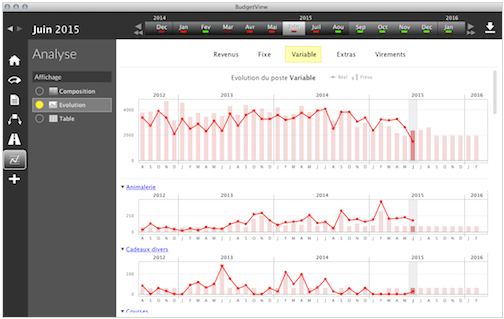
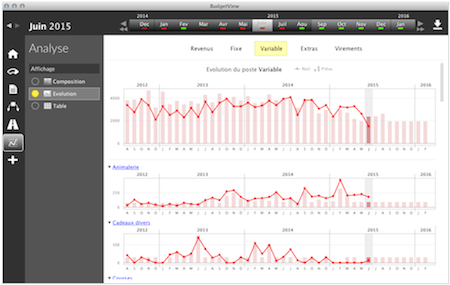
Fin publication v4.02

diff --git a/picsou/picsou/website/fr/content/telechargement/linux.html b/picsou/picsou/website/fr/content/telechargement/linux.html
@@ -4,27 +4,27 @@
     <table id="download" class="centered">
         <tr>
             <td class="left">
-                <a href="/files/app/budgetview-4.01.deb" class="clicky_log_download" onclick="clicky.goal('12644', '0.00');">
+                <a href="/files/app/budgetview-4.02.deb" class="clicky_log_download" onclick="clicky.goal('12644', '0.00');">
                     <button type="button" class="btn btn-primary">Télécharger .deb<br>
                         <span class="subtext">Ubuntu / Debian</span></button>
                 </a>
                 <p class="biglink" style="margin-top:5px">
-                    <a href="/files/app/budgetview-4.01.deb" class="clicky_log_download highlighted"
-                       onclick="clicky.goal('12644', '0.00');">budgetview-4.01.deb</a>
+                    <a href="/files/app/budgetview-4.02.deb" class="clicky_log_download highlighted"
+                       onclick="clicky.goal('12644', '0.00');">budgetview-4.02.deb</a>
                 </p>
             </td>
             <td class="center">
                 <img src="/files/images/download/linux.png" alt="" width="86" height="103">
             </td>
             <td class="right">
-                <a href="/files/app/budgetview-4.01-fr.tar.gz" class="clicky_log_download"
+                <a href="/files/app/budgetview-4.02-fr.tar.gz" class="clicky_log_download"
                    onclick="clicky.goal('12644', '0.00');">
                     <button type="button" class="btn btn-primary">Télécharger .tar<br>
                         <span class="subtext">Toutes distributions</span></button>
                 </a>
                 <p class="biglink" style="margin-top:5px">
-                    <a href="/files/app/budgetview-4.01-fr.tar.gz" class="clicky_log_download highlighted"
-                       onclick="clicky.goal('12644', '0.00');">budgetview-4.01-fr.tar.gz</a>
+                    <a href="/files/app/budgetview-4.02-fr.tar.gz" class="clicky_log_download highlighted"
+                       onclick="clicky.goal('12644', '0.00');">budgetview-4.02-fr.tar.gz</a>
                 </p>
             </td>
         </tr>
@@ -79,7 +79,7 @@ Java HotSpot(TM) Client VM (build 1.5.0_16-133, mixed mode, sharing)
     <p>Ouvrez un terminal, rendez-vous dans le répertoire en question et tapez la commande suivante pour
         décompresser le fichier :</p>
 
-    <pre>tar xzvf budgetview-4.01-fr.tar.gz</pre>
+    <pre>tar xzvf budgetview-4.02-fr.tar.gz</pre>
 
     <p>Cela crée un répertoire <code>BudgetView</code> dans ce répertoire. Entrez la commande ci-dessous&nbsp;:</p>
 

diff --git a/picsou/picsou/website/en/content/support/last_changes.html b/picsou/picsou/website/en/content/support/last_changes.html
@@ -1,11 +1,36 @@
 <div id="changelog" class="log">
 
-    <!------------------------------>
 
-    <h2>version 4.01 <span class="date">may 9, 2015</span></h2>
+    <h2>version 4.02 <span class="date">august 31, 2015</span></h2>
 
-    <p>This version integrates a few fixes, and clarifies the fact that BudgetView is now a free application that
-        can be optionally extended with paid add-ons.</p>
+    <p>For this version we have mainly worked on simplifying the initial setup for newcomers.
+        We have improved the onboarding wizard and also revisited the organization
+        of the envelope edition dialog:</p>
+
+    <div class="centered-image">
+        <img src="/files/images_en/support/versions/v4_02/envelope_edition_forecast.png"
+             alt="New envelope edition dialog to configure the forecast"/>
+    </div>
+
+    <p>In terms of new features, users of the "Analysis" add-on will find a new view: the evolution of the envelopes.
+        This view lets you observe the evolution of each of your envelopes over time, up to the last three years.</p>
+
+    <div class="centered-image">
+        <img src="/files/images_en/support/versions/v4_02/analysis_envelopes_evolution.png"
+             alt="Analysis add-on: new 'Evolution' view"/>
+    </div>
+
+    <p>Some of you were requesting a longer timespan for the forecasts.
+        We have increased the maximum to 60 months, which you can set in the Preferences panel.</p>
+
+    <p>We also added some color schemes. You can change the theme in the File / Preferences menu.</p>
+
+    <div class="centered-image">
+        <img src="/files/images_en/support/versions/v4_02/new_color_themes.png" alt="New color themes"/>
+    </div>
+
+    <p>And as usual we have also fixed a few bugs. Note that if you are having problems connecting to your
+        bank you can now easily send us detailed information about the error.</p>
 
     <h3>Installation</h3>
 
@@ -30,6 +55,14 @@
     <p>And as always, please do not hesitate to write us at
         <a href="mailto:support@mybudgetview.com" class="highlighted">support@mybudgetview.com</a>
         to tell us what you think about this release, and how we can make BudgetView even better.</p>
+
+
+    <!------------------------------>
+
+    <h2>version 4.01 <span class="date">may 9, 2015</span></h2>
+
+    <p>This version integrates a few fixes, and clarifies the fact that BudgetView is now a free application that
+        can be optionally extended with paid add-ons.</p>
 
     <!------------------------------>
 

diff --git a/picsou/picsou/website/fr/content/support/derniers_changements.html b/picsou/picsou/website/fr/content/support/derniers_changements.html
@@ -2,7 +2,7 @@
 
     <!------------------------------>
 
-    <h2>version 4.02 <span class="date">23 août 2015</span></h2>
+    <h2>version 4.02 <span class="date">31 août 2015</span></h2>
 
     <p>Pour cette version nous avons avant tout cherché à faciliter l'accès aux nouveaux venus.
         Nous avons ainsi amélioré l'assistant de guidage initial, mais aussi revu en profondeur
@@ -13,7 +13,7 @@
              alt="Nouvelle fenêtre d'édition du prévisionnel des enveloppes"/>
     </div>
 
-    <p>En termes de nouvelles fonctionnalités, les utilisateurs de l'extension "Analyse" verront une nouvelle entrée&nbsp;:
+    <p>En termes de nouvelles fonctionnalités, si vous utilisez l'extension "Analyse" vous verrez une nouvelle entrée&nbsp;:
         l'évolution des enveloppes. Cette vue vous permet d'observer l'évolution de chacune de vos enveloppes dans le temps,
         jusqu'aux trois dernières années. </p>
 
@@ -24,7 +24,7 @@
     <p>Côté futur, nous avons fait passer l'horizon maximum à 60 mois dans le panneau Préférences.</p>
 
     <p>Nous avons aussi ajouté quelques jeux de couleurs. Vous pouvez changer le thème dans le menu Fichier /
-        Préférences.</p>
+        Préférences, parmi les choix suivants&nbsp;:</p>
 
     <div class="centered-image">
         <img src="/files/images_fr/support/versions/v4_02/themes_couleurs.png" alt="Nouveau jeu de couleurs"/>

diff --git a/picsou/picsou/website/fr/content/telechargement/windows.html b/picsou/picsou/website/fr/content/telechargement/windows.html
@@ -6,13 +6,13 @@
             </td>
             <td class="right">
                 <p>Pour télécharger BudgetView, cliquez sur le bouton ci-dessous&nbsp;:</p>
-                <a href="/files/app/BudgetView-4.01-fr-Setup.exe" class="clicky_log_download" onclick="clicky.goal('12644', '0.00');">
+                <a href="/files/app/BudgetView-4.02-fr-Setup.exe" class="clicky_log_download" onclick="clicky.goal('12644', '0.00');">
                     <button type="button" class="btn btn-primary">Télécharger</button>
                 </a>
                 <br/>
                 <p class="biglink" style="margin-top:10px">
-                    <a href="/files/app/BudgetView-4.01-fr-Setup.exe" class="highlighted clicky_log_download" onclick="clicky.goal('12644', '0.00');">
-                        BudgetView-4.01-fr-Setup.exe</a>
+                    <a href="/files/app/BudgetView-4.02-fr-Setup.exe" class="highlighted clicky_log_download" onclick="clicky.goal('12644', '0.00');">
+                        BudgetView-4.02-fr-Setup.exe</a>
                 </p>
             </td>
         </tr>

diff --git a/picsou/picsou/website/fr/content/telechargement/macosx.html b/picsou/picsou/website/fr/content/telechargement/macosx.html
@@ -6,12 +6,12 @@
             </td>
             <td class="right">
                 <p>Pour télécharger BudgetView, cliquez sur le bouton ci-dessous&nbsp;:</p>
-                <a href="/files/app/BudgetView-4.01-fr.dmg" class="clicky_log_download"  onclick="clicky.goal('12644', '0.00');">
+                <a href="/files/app/BudgetView-4.02-fr.dmg" class="clicky_log_download"  onclick="clicky.goal('12644', '0.00');">
                     <button type="button" class="btn btn-primary">Télécharger</button><br>
                 </a>
                 <p class="biglink" style="margin-top:10px">
-                    <a href="/files/app/BudgetView-4.01-fr.dmg" class="clicky_log_download highlighted" onclick="clicky.goal('12644', '0.00');">
-                        BudgetView-4.01-fr.dmg</a>
+                    <a href="/files/app/BudgetView-4.02-fr.dmg" class="clicky_log_download highlighted" onclick="clicky.goal('12644', '0.00');">
+                        BudgetView-4.02-fr.dmg</a>
                 </p>
             </td>
         </tr>

diff --git a/picsou/picsou/website/fr/content/extensions.html b/picsou/picsou/website/fr/content/extensions.html
@@ -2,7 +2,7 @@
 
     <div id="banner" class="row">
         <div class="col-md-6 centered">
-            <h1>Complétez votre BudgetView&nbsp;!</h1>
+            <h1>Budgetez<br/>comme un pro&nbsp;!</h1>
 
 
             <form action="https://www.paypal.com/cgi-bin/webscr" id="form1" method="post" target="_top">
@@ -20,7 +20,7 @@
     </div>
 
     <div>
-        <h2 class="large">4 extensions pour passer au niveau pro</h2>
+        <h2 class="large">4 extensions pour compléter votre application</h2>
     </div>
 
     <div id="projects">

diff --git a/picsou/picsou/website/en/content/add_ons.html b/picsou/picsou/website/en/content/add_ons.html
@@ -2,7 +2,7 @@
 
     <div id="banner" class="row">
         <div class="col-md-6 centered">
-            <h1>Power-up your budget!</h1>
+            <h1>Step-up your<br/>budgeting game!</h1>
 
             <form action="https://www.paypal.com/cgi-bin/webscr" id="form1" method="post" target="_top">
                 <input type="hidden" name="cmd" value="_s-xclick">

diff --git a/siteweaver/src/main/com/designup/siteweaver/SiteWeaver.java b/siteweaver/src/main/com/designup/siteweaver/SiteWeaver.java
@@ -29,7 +29,7 @@ public class SiteWeaver {
 
     server.setHandler(new PageHandler(new File(args[0]), getFileAccess(args)));
     server.start();
-    System.out.println("Listening on " + "htpp://localhost:" + connector.getPort() + "  --  " + "http://" + getHostAddress() + ":" + connector.getPort() + "\n");
+    System.out.println("Listening on " + "http://localhost:" + connector.getPort() + "  --  " + "http://" + getHostAddress() + ":" + connector.getPort() + "\n");
     if (args.length > 1) {
       System.out.println("Available commands:\n" +
                          "  /!dump\n" +
